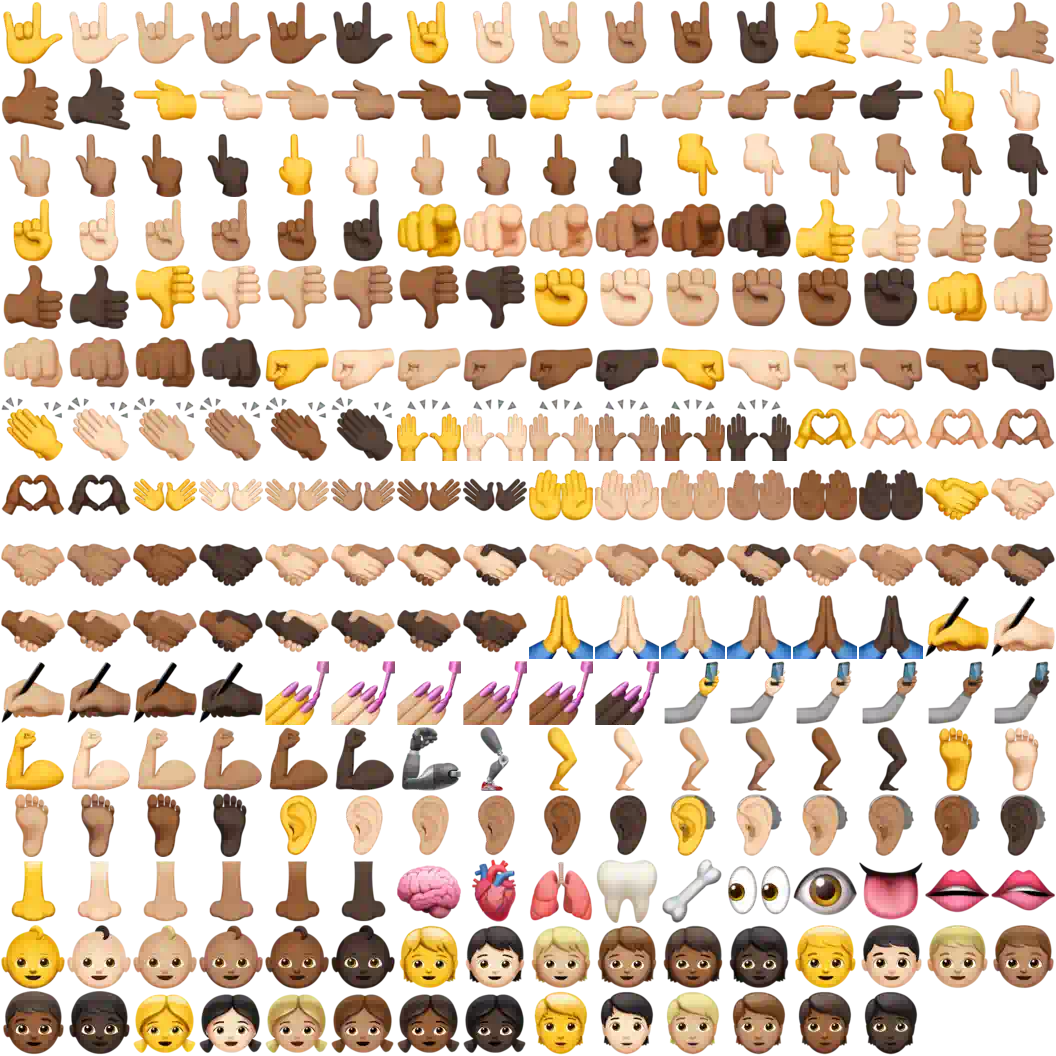
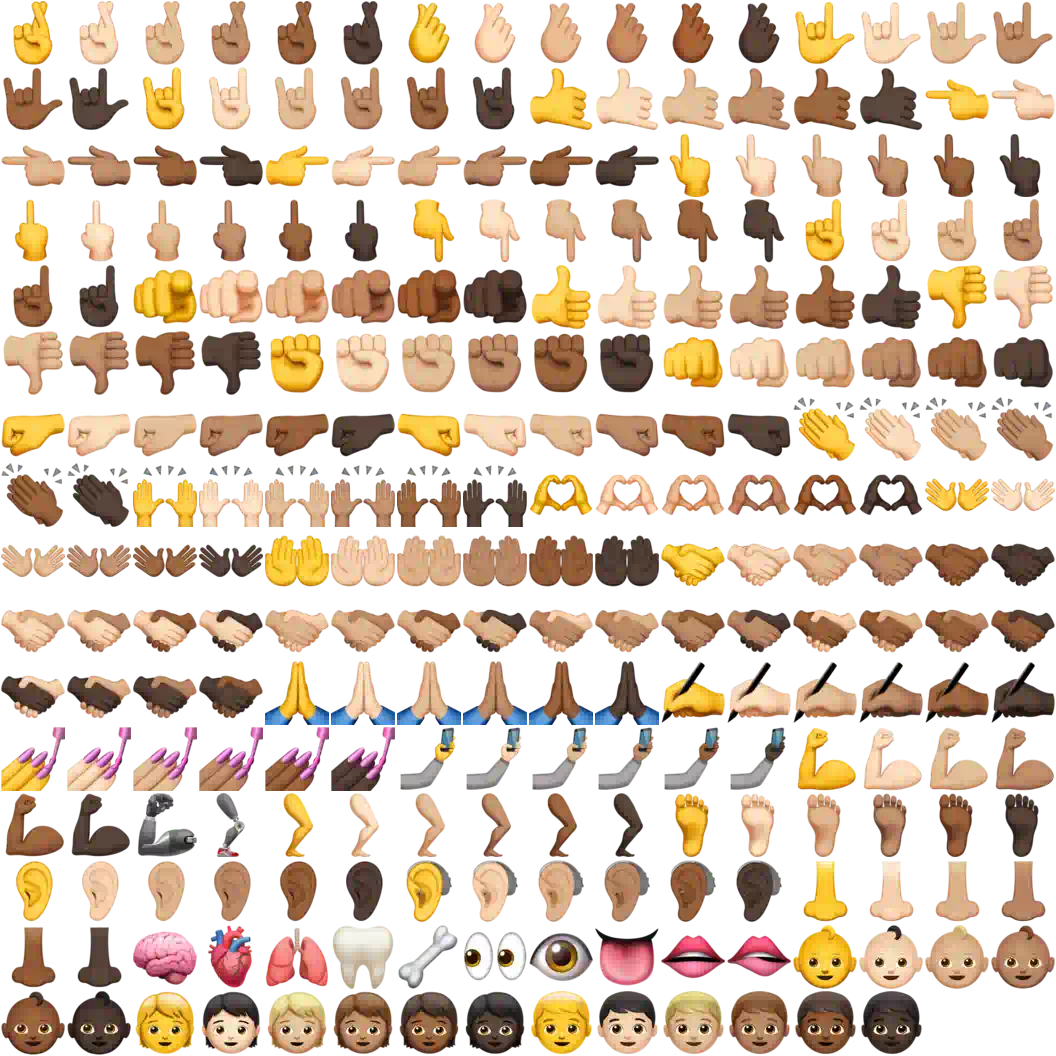
Add support for Emoji v15.0

diff --git a/app/src/main/java/org/thoughtcrime/securesms/migrations/ApplicationMigrations.java b/app/src/main/java/org/thoughtcrime/securesms/migrations/ApplicationMigrations.java
@@ -131,9 +131,10 @@ public class ApplicationMigrations {
     static final int PREKEY_SYNC                   = 87;
     static final int DEDUPE_DB_MIGRATION           = 88;
     static final int DEDUPE_DB_MIGRATION_2         = 89;
+    static final int EMOJI_VERSION_8               = 90;
   }
 
-  public static final int CURRENT_VERSION = 89;
+  public static final int CURRENT_VERSION = 90;
 
   /**
    * This *must* be called after the {@link JobManager} has been instantiated, but *before* the call
@@ -589,6 +590,10 @@ public class ApplicationMigrations {
 
     if (lastSeenVersion < Version.DEDUPE_DB_MIGRATION_2) {
       jobs.put(Version.DEDUPE_DB_MIGRATION_2, new DatabaseMigrationJob());
+    }
+
+    if (lastSeenVersion < Version.EMOJI_VERSION_8) {
+      jobs.put(Version.EMOJI_VERSION_8, new EmojiDownloadMigrationJob());
     }
 
     return jobs;
